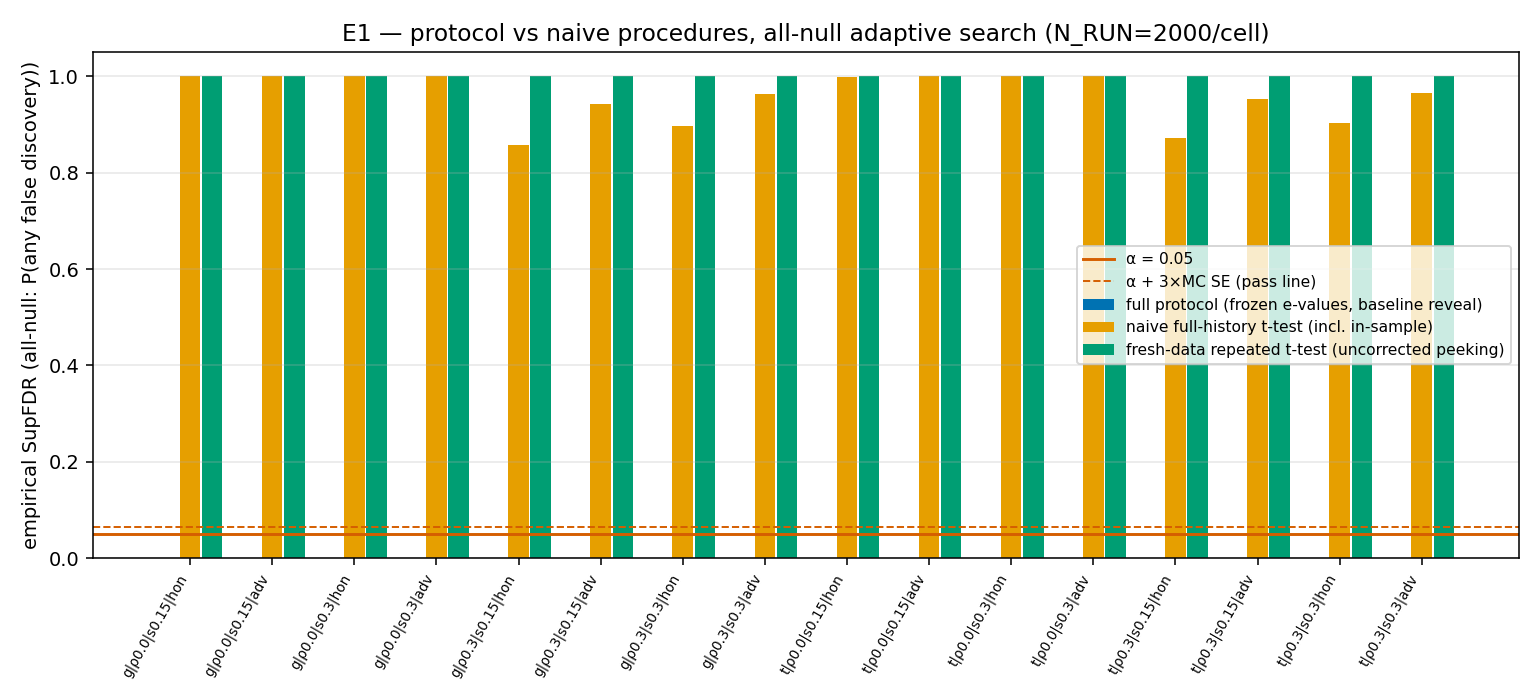
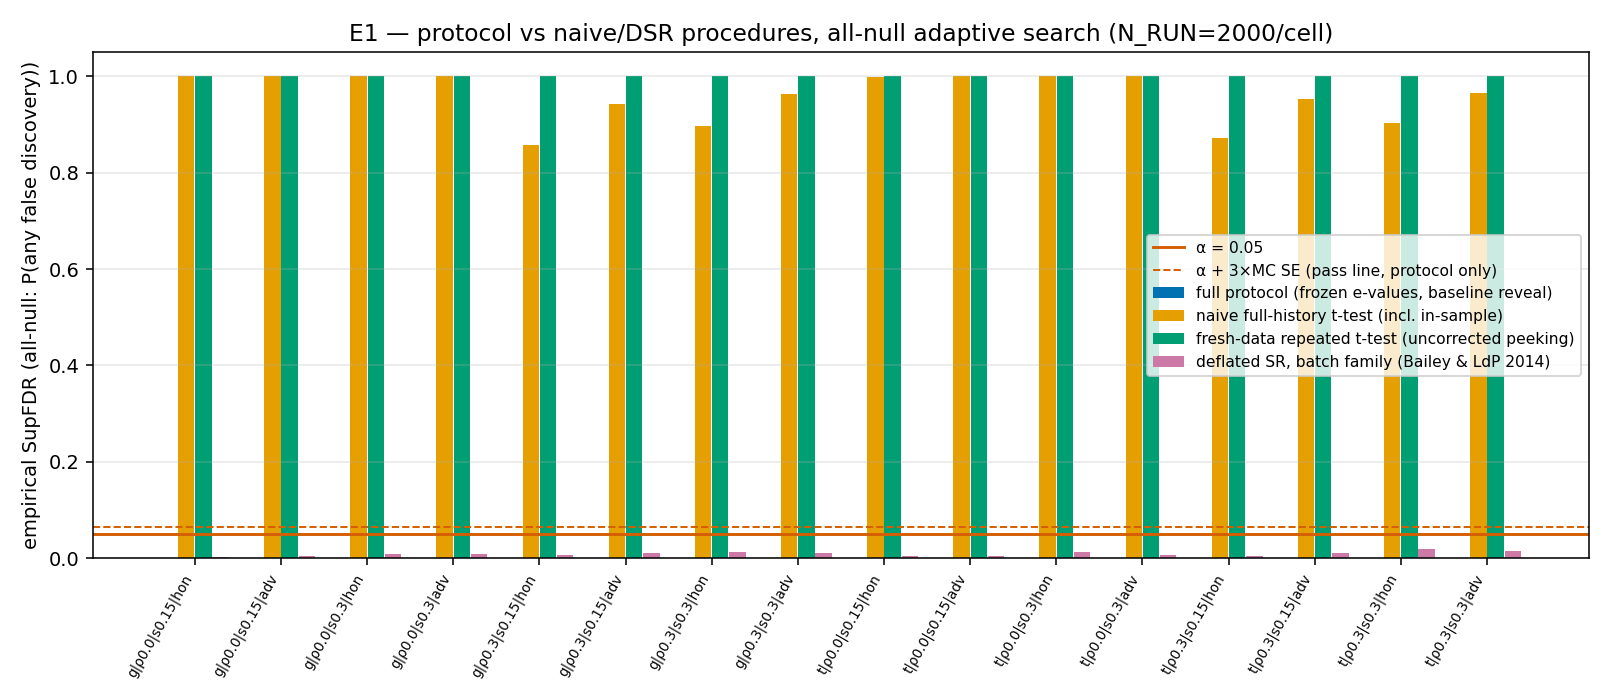
sim: 심사 대응 R1(메커니즘 체크)·R2(DSR 비교군) 추가
- R1: J_budget=20, α∈{0.2,0.5} → 거짓발견 실발생(총 20건) 영역에서
  전 셀 SupFDR ≪ α+3SE PASS
- R2: BLdP(2014) DSR batch family 비교군 — FDP 0.2~1.9% (naive/fresh와 대비),
  E1 그림 4절차 비교로 교체
- common.py EXP_ID에 R1/R2 추가

diff --git a/paper_a_frontier/sim/run_R2.py b/paper_a_frontier/sim/run_R2.py
@@ -1,0 +1,144 @@
+"""R2 — deflated Sharpe ratio 비교군 (심사 M3 대응).
+
+기존 E1 세계·등록 집합(16셀, 동일 seed 스트림으로 재생성) 재사용. 각 런 종료
+시점에 등록 전략 전체를 batch family로 취급, full-history Sharpe
+([0, min(D_j, T-1)], naive 비교군과 동일 창)에 Bailey & López de Prado (2014,
+JPM 40(5)) deflated Sharpe ratio 적용:
+
+  trials N = n_reg,  V = Var({SR_i}, ddof=1)  (family 내 SR 추정치의 횡단면 분산)
+  SR0 = sqrt(V) * [ (1-γ_EM)·Φ⁻¹(1-1/N) + γ_EM·Φ⁻¹(1-1/(N·e)) ]   (γ_EM = 0.5772…)
+  DSR_i = Φ( (SR_i - SR0)·sqrt(n_i-1) / sqrt(1 - γ3_i·SR_i + ((γ4_i-1)/4)·SR_i²) )
+  (γ3 = 수익률 왜도, γ4 = 첨도(non-excess), 모두 population 모멘트; SR은 월간,
+   sd는 ddof=1; n_i = 전략별 관측 개월 수 — BLdP의 공통 n을 전략별로 일반화)
+
+발견: DSR p = 1 - DSR < 0.05 (즉 DSR > 0.95). 전부-null이므로 FDP = 1{발견>=1}.
+full protocol / naive / fresh-peek도 같은 런에서 재계산해 4절차 비교 그림으로
+sim_E1_supfdr.png 교체. 실행: MPLBACKEND=Agg python3 -m sim.run_R2
+"""
+import itertools
+import time
+
+import numpy as np
+import pandas as pd
+import matplotlib.pyplot as plt
+from scipy import stats
+
+from . import common, ebh, searcher
+from .registry import Registry
+from .run_E1 import comparators, ALPHA, J_BUDGET, T, L, W, DEADLINE_LEN, M_ENV
+
+N_RUN = 2000
+EULER_GAMMA = 0.5772156649015329
+
+CELLS = list(itertools.product(["gaussian", "t5"], [0.0, 0.3],
+                               [0.15, 0.30], ["honest", "adversarial"]))
+
+
+def dsr_discoveries(regs, alpha=ALPHA):
+    """BLdP(2014) DSR: 전략별 발견 여부 (batch family = 등록 전체)."""
+    J = len(regs)
+    if J < 2:
+        return np.zeros(J, bool)
+    A = np.array([r.A for r in regs])
+    S = np.stack([r.series for r in regs])
+    n = np.minimum(A + DEADLINE_LEN, T - 1) + 1
+    jj = np.arange(J)
+    c1 = np.cumsum(S, axis=1)[jj, n - 1]
+    c2 = np.cumsum(S ** 2, axis=1)[jj, n - 1]
+    c3 = np.cumsum(S ** 3, axis=1)[jj, n - 1]
+    c4 = np.cumsum(S ** 4, axis=1)[jj, n - 1]
+    m1 = c1 / n
+    m2c = c2 / n - m1 ** 2                       # population 분산
+    m3c = c3 / n - 3 * m1 * c2 / n + 2 * m1 ** 3
+    m4c = c4 / n - 4 * m1 * c3 / n + 6 * m1 ** 2 * c2 / n - 3 * m1 ** 4
+    sd_s = np.sqrt(m2c * n / (n - 1))            # 표본 sd (ddof=1) — SR용
+    sr = m1 / sd_s                               # 월간 SR
+    g3 = m3c / m2c ** 1.5                        # 왜도
+    g4 = m4c / m2c ** 2                          # 첨도 (non-excess)
+    V = np.var(sr, ddof=1)
+    z1 = stats.norm.ppf(1 - 1 / J)
+    z2 = stats.norm.ppf(1 - 1 / (J * np.e))
+    sr0 = np.sqrt(V) * ((1 - EULER_GAMMA) * z1 + EULER_GAMMA * z2)
+    denom = np.clip(1 - g3 * sr + (g4 - 1) / 4 * sr ** 2, 1e-12, None)
+    z = (sr - sr0) * np.sqrt(n - 1) / np.sqrt(denom)
+    dsr = stats.norm.cdf(z)
+    return dsr > 1 - alpha                       # p = 1-DSR < alpha
+
+
+def run_one(noise, rho, s_reg, behavior, run_idx):
+    nc, bc = common.NOISE_CODE[noise], common.BEHAVIOR_CODE[behavior]
+    # E1과 동일한 seed 스트림 → 동일 세계·등록 집합 재생성
+    rng_world = common.rng_for(common.EXP_ID["E1"], 0, nc, int(rho * 10), run_idx)
+    rng_mut = common.rng_for(common.EXP_ID["E1"], 1, nc, int(rho * 10),
+                             int(s_reg * 100), bc, run_idx)
+    reg = Registry(J_BUDGET, ALPHA, M_ENV, DEADLINE_LEN)
+    searcher.run_search(rng_world, rng_mut, reg, T=T, L=L, W=W, s_reg=s_reg,
+                        behavior=behavior, noise=noise, rho=rho)
+    regs = reg.regs
+    e_log, tau_cal, _, _, is_null = ebh.freeze_summary(regs, T, reg.log_b)
+    base = ebh.baseline_reveal(e_log, tau_cal, is_null, ALPHA, J_BUDGET)
+    naive_disc, fresh_disc = comparators(regs)
+    dsr_disc = dsr_discoveries(regs)
+    return {"run_id": run_idx, "noise": noise, "rho": rho, "s_reg": s_reg,
+            "behavior": behavior, "n_reg": len(regs),
+            "sup_fdp": base["sup_fdp"],
+            "naive_fdp": float(naive_disc.any()), "fresh_fdp": float(fresh_disc.any()),
+            "dsr_fdp": float(dsr_disc.any()), "dsr_n_disc": int(dsr_disc.sum())}
+
+
+def main(n_run=N_RUN):
+    t0 = time.time()
+    rows = []
+    for ci, (noise, rho, s_reg, behavior) in enumerate(CELLS):
+        tc = time.time()
+        for r in range(n_run):
+            rows.append(run_one(noise, rho, s_reg, behavior, r))
+        sub = pd.DataFrame(rows[-n_run:])
+        print(f"[{ci+1:2d}/16] {noise:>8} rho={rho} s_reg={s_reg} {behavior:>11}: "
+              f"proto={sub['sup_fdp'].mean():.4f} dsr={sub['dsr_fdp'].mean():.3f} "
+              f"naive={sub['naive_fdp'].mean():.3f} ({time.time()-tc:.0f}s)", flush=True)
+    df = pd.DataFrame(rows)
+    path = common.write_parquet(df, "R2.parquet")
+
+    g = df.groupby(["noise", "rho", "s_reg", "behavior"], sort=False)
+    summ = g.agg(supfdr=("sup_fdp", "mean"), naive=("naive_fdp", "mean"),
+                 fresh=("fresh_fdp", "mean"), dsr=("dsr_fdp", "mean"),
+                 dsr_ndisc=("dsr_n_disc", "mean"), n_reg=("n_reg", "mean"),
+                 n=("sup_fdp", "size")).reset_index()
+    print("\n" + summ.to_string(index=False))
+    print(f"\nR2 완료 (총 {time.time()-t0:.0f}s, commit {common.commit_hash()})")
+
+    # ---- 그림: E1 4절차 비교로 교체 ----
+    okabe = ["#0072B2", "#E69F00", "#009E73", "#CC79A7"]
+    fig, ax = plt.subplots(figsize=(11.5, 5))
+    x = np.arange(len(summ))
+    ax.bar(x - 0.30, summ["supfdr"], 0.19, color=okabe[0],
+           label="full protocol (frozen e-values, baseline reveal)")
+    ax.bar(x - 0.10, summ["naive"], 0.19, color=okabe[1],
+           label="naive full-history t-test (incl. in-sample)")
+    ax.bar(x + 0.10, summ["fresh"], 0.19, color=okabe[2],
+           label="fresh-data repeated t-test (uncorrected peeking)")
+    ax.bar(x + 0.30, summ["dsr"], 0.19, color=okabe[3],
+           label="deflated SR, batch family (Bailey & LdP 2014)")
+    se_ref = np.sqrt(ALPHA * (1 - ALPHA) / n_run)
+    ax.axhline(ALPHA, color="#D55E00", lw=1.5, label=f"α = {ALPHA}")
+    ax.axhline(ALPHA + 3 * se_ref, color="#D55E00", lw=1, ls="--",
+               label="α + 3×MC SE (pass line, protocol only)")
+    labels = [f"{n[0]}|ρ{r}|s{s}|{b[:3]}" for n, r, s, b in
+              zip(summ["noise"], summ["rho"], summ["s_reg"], summ["behavior"])]
+    ax.set_xticks(x)
+    ax.set_xticklabels(labels, rotation=60, ha="right", fontsize=7)
+    ax.set_ylabel("empirical SupFDR (all-null: P(any false discovery))")
+    ax.set_ylim(0, 1.05)
+    ax.set_title(f"E1 — protocol vs naive/DSR procedures, all-null adaptive search "
+                 f"(N_RUN={n_run}/cell)")
+    ax.legend(fontsize=8, loc="center right")
+    ax.grid(alpha=0.3, axis="y")
+    fig.tight_layout()
+    fig.savefig(common.REPO / "sim_E1_supfdr.png", dpi=140)
+    print(f"saved -> {path.name}, sim_E1_supfdr.png")
+    return summ
+
+
+if __name__ == "__main__":
+    main()

diff --git a/paper_a_frontier/sim/run_R1.py b/paper_a_frontier/sim/run_R1.py
@@ -1,0 +1,85 @@
+"""R1 — validity mechanism check (심사 M2 대응).
+
+all-null, 기존 E1 searcher 재사용. J_budget=20, gamma=1/20,
+alpha ∈ {0.2, 0.5} → b_solo = 1/(alpha*gamma) = 100, 40. D=120, gaussian,
+rho ∈ {0, 0.3}, behavior ∈ {honest, adversarial} — 8셀, N_RUN=2000/셀.
+목적: 발견이 실제로 발생하는 영역에서 empirical SupFDR <= alpha + 3*SE 확인.
+발견 0인 셀이 있어도 alpha를 더 올려 재실행하지 않고 그대로 보고.
+
+CRN: 세계 잡음 seed는 (rho, run)만 사용 — alpha/behavior 축과 무관하게 동일
+세계 공유 (등록 집합은 alpha와 무관, behavior에만 의존).
+s_reg = 0.15 (약한 selection, E1의 weak 셀) 고정.
+실행: MPLBACKEND=Agg python3 -m sim.run_R1
+"""
+import itertools
+import time
+
+import numpy as np
+import pandas as pd
+
+from . import common, ebh, searcher
+from .registry import Registry
+
+J_BUDGET = 20
+T = 480
+L = 100
+W = 36
+S_REG = 0.15
+DEADLINE_LEN = 120
+N_RUN = 2000
+M_ENV = 1.3
+
+CELLS = list(itertools.product([0.2, 0.5], [0.0, 0.3], ["honest", "adversarial"]))
+
+
+def run_one(alpha, rho, behavior, run_idx):
+    bc = common.BEHAVIOR_CODE[behavior]
+    rng_world = common.rng_for(common.EXP_ID["R1"], 0, int(rho * 10), run_idx)
+    rng_mut = common.rng_for(common.EXP_ID["R1"], 1, int(rho * 10), bc, run_idx)
+    reg = Registry(J_BUDGET, alpha, M_ENV, DEADLINE_LEN)
+    searcher.run_search(rng_world, rng_mut, reg, T=T, L=L, W=W, s_reg=S_REG,
+                        behavior=behavior, noise="gaussian", rho=rho)
+    regs = reg.regs
+    e_log, tau_cal, solo, _, is_null = ebh.freeze_summary(regs, T, reg.log_b)
+    res = ebh.baseline_reveal(e_log, tau_cal, is_null, alpha, J_BUDGET)
+    return {"run_id": run_idx, "alpha": alpha, "rho": rho, "behavior": behavior,
+            "n_reg": len(regs), "sup_fdp": res["sup_fdp"],
+            "n_disc": res["n_disc"], "n_false": res["n_false"],
+            "n_solo": int(solo.sum())}
+
+
+def main(n_run=N_RUN):
+    t0 = time.time()
+    rows = []
+    for ci, (alpha, rho, behavior) in enumerate(CELLS):
+        tc = time.time()
+        for r in range(n_run):
+            rows.append(run_one(alpha, rho, behavior, r))
+        sub = pd.DataFrame(rows[-n_run:])
+        print(f"[{ci+1}/8] alpha={alpha} rho={rho} {behavior:>11}: "
+              f"SupFDR={sub['sup_fdp'].mean():.4f} 거짓발견합={sub['n_false'].sum()} "
+              f"({time.time()-tc:.0f}s)", flush=True)
+    df = pd.DataFrame(rows)
+    path = common.write_parquet(df, "R1.parquet")
+
+    g = df.groupby(["alpha", "rho", "behavior"], sort=False)
+    summ = g.agg(supfdr=("sup_fdp", "mean"), n=("sup_fdp", "size"),
+                 disc_rate_run=("n_disc", lambda x: (x > 0).mean()),
+                 n_false_total=("n_false", "sum"),
+                 n_false_mean=("n_false", "mean"),
+                 n_reg=("n_reg", "mean"), n_solo_mean=("n_solo", "mean")).reset_index()
+    summ["se_ref"] = np.sqrt(summ["alpha"] * (1 - summ["alpha"]) / summ["n"])
+    summ["threshold"] = summ["alpha"] + 3 * summ["se_ref"]
+    summ["pass"] = summ["supfdr"] <= summ["threshold"]
+    print("\n" + summ.to_string(index=False))
+    all_pass = bool(summ["pass"].all())
+    zero_cells = int((summ["n_false_total"] == 0).sum())
+    print(f"\nR1 {'PASS — 전체 셀 SupFDR <= alpha + 3*SE' if all_pass else '*** FAIL: STOP·보고 ***'}"
+          f"  (발견 0 셀 {zero_cells}개는 그대로 보고)"
+          f"  (총 {time.time()-t0:.0f}s, commit {common.commit_hash()})")
+    print(f"saved -> {path.name}")
+    return summ
+
+
+if __name__ == "__main__":
+    main()

diff --git a/paper_a_frontier/sim/common.py b/paper_a_frontier/sim/common.py
@@ -14,7 +14,7 @@ from pathlib import Path
 import numpy as np
 
 SEED_BASE = 20260706
-EXP_ID = {"E1": 1, "E2": 2, "E3": 3, "E4": 4, "E5": 5}
+EXP_ID = {"E1": 1, "E2": 2, "E3": 3, "E4": 4, "E5": 5, "R1": 6, "R2": 7}
 NOISE_CODE = {"gaussian": 0, "t5": 1}
 BEHAVIOR_CODE = {"honest": 0, "adversarial": 1}
 

diff --git a/paper_a_frontier/RUN_LOG.md b/paper_a_frontier/RUN_LOG.md
@@ -350,3 +350,58 @@ mean_m/sd_m/frontier_at_nj에서 직접 재계산. frontier·A_j 관례 동일.
 
 haircut을 줘도 below %·margin이 사실상 불변/악화 방향 — "Day-1 detectability
 거의 불가" 내러티브는 hurdle grid에 강건. `data/stage7_haircut_sensitivity.csv`.
+
+## 심사 대응 실험 R1·R2 (2026-07-06, 엔진 커밋 5b9cbac 기준 실행)
+
+frontier.py 무수정, 기존 sim/ 재사용. SEED: R1은 `[20260706, 6, ...]`
+(세계 잡음은 (rho, run)만 — alpha/behavior 축 CRN 공유), R2는 E1과 동일
+seed 스트림으로 세계·등록 집합을 그대로 재생성.
+
+### R1 — validity mechanism check (M2 대응) : **PASS**
+
+all-null, E1 searcher 재사용, J_budget=20, γ=1/20, α ∈ {0.2, 0.5}
+(b_solo = 100, 40), D=120, gaussian, s_reg=0.15, N_RUN=2,000/셀.
+
+| α | ρ | behavior | SupFDR | 발견률(런) | 거짓발견 합 | 합격선 α+3SE |
+|---:|---:|---|---:|---:|---:|---:|
+| 0.2 | 0.0 | honest | 0.0000 | 0.00% | 0 | 0.2268 |
+| 0.2 | 0.0 | adversarial | 0.0000 | 0.00% | 0 | 0.2268 |
+| 0.2 | 0.3 | honest | 0.0005 | 0.05% | 1 | 0.2268 |
+| 0.2 | 0.3 | adversarial | 0.0000 | 0.00% | 0 | 0.2268 |
+| 0.5 | 0.0 | honest | 0.0025 | 0.25% | 5 | 0.5335 |
+| 0.5 | 0.0 | adversarial | 0.0025 | 0.25% | 6 | 0.5335 |
+| 0.5 | 0.3 | honest | 0.0025 | 0.25% | 5 | 0.5335 |
+| 0.5 | 0.3 | adversarial | 0.0015 | 0.15% | 3 | 0.5335 |
+
+- 경계를 낮추면(b_solo=40) 파이프라인이 실제로 거짓발견을 생산함(총 20건)을
+  확인 — E1의 SupFDR=0이 "발견이 원천 불가능해서"가 아니라 경계·예산 규율의
+  결과임을 보여주는 메커니즘 체크. 전 셀 SupFDR ≪ α+3SE로 **PASS**.
+- 발견 0인 셀 3개(α=0.2)는 지침대로 α 추가 상향 없이 그대로 보고.
+- Catoni+e-BH의 보수성으로 실현 SupFDR이 명목 α보다 훨씬 낮음 (α=0.5에서
+  ~0.2%) — validity 마진이 큰 영역에서 작동함을 함께 기록. `sim_results/R1.parquet`.
+
+### R2 — deflated Sharpe ratio 비교군 (M3 대응)
+
+E1 16셀 세계·등록 집합 재사용. 런 종료 시점에 등록 전체를 batch family로,
+full-history Sharpe([0, min(D_j, T-1)], naive와 동일 창)에 BLdP(2014, JPM 40(5))
+DSR 적용. 구현 공식 (논문 그대로, Euler–Mascheroni γ_EM=0.5772…):
+  V = Var({SR_i}, ddof=1), N = n_reg,
+  SR0 = √V·[(1−γ_EM)·Φ⁻¹(1−1/N) + γ_EM·Φ⁻¹(1−1/(N·e))],
+  DSR_i = Φ((SR_i−SR0)·√(n_i−1)/√(1−γ3_i·SR_i+((γ4_i−1)/4)·SR_i²)),
+  발견 ⟺ 1−DSR < 0.05. (γ3/γ4는 population 모멘트, SR은 월간·sd ddof=1,
+  n_i는 전략별 관측 길이 — BLdP의 공통 n을 전략별로 일반화.)
+
+| 절차 (16셀 범위) | FDP = P(발견≥1) |
+|---|---|
+| full protocol (baseline reveal) | 전 셀 0.0000 |
+| **DSR batch family (BLdP 2014)** | **0.0020 – 0.0185** |
+| naive full-history t-test | 0.858 – 1.000 |
+| fresh-data 반복 검정 | 전 셀 1.000 |
+
+- DSR은 이 설계에서 FDP를 잘 통제 (전 셀 ≤ 1.9%, α=0.05 이내) — 단 (i) 정확한
+  trials N=n_reg를 외생적으로 알려준 이상적 조건이고 (ii) 런 종료 시점의 one-shot
+  batch 검정이라 anytime validity·online 발견·등록순 reveal이 없음 — 프로토콜과의
+  차별점은 오류 통제율이 아니라 **운용 형태(순차/anytime vs 사후 일괄)**임을 명기.
+- FDP가 상대적으로 높은 셀은 강한 selection(s_reg=0.30)·공통요인(ρ=0.3) 조합 —
+  SR 횡단면 분산 V가 줄어 SR0가 낮아지는 방향.
+- `sim_results/R2.parquet`, `sim_E1_supfdr.png`를 4절차 비교(DSR 4번째 막대)로 교체.